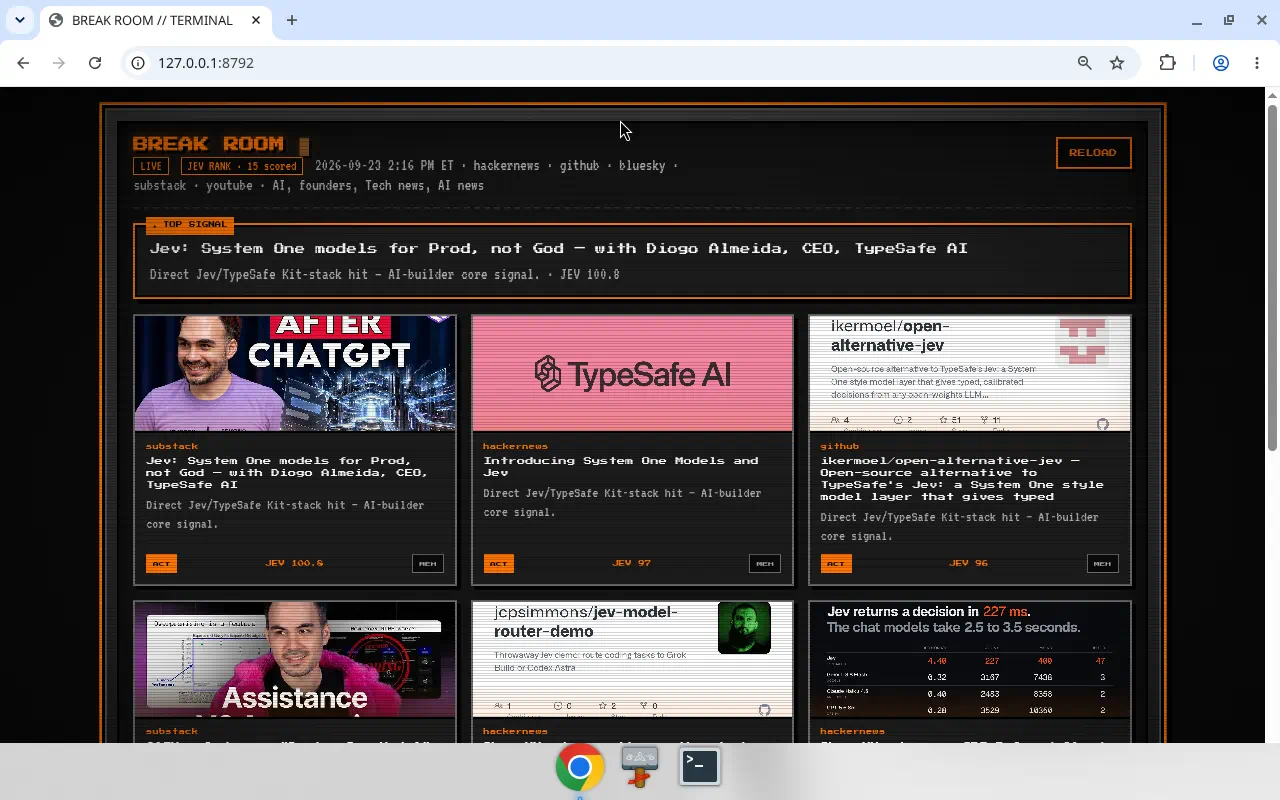
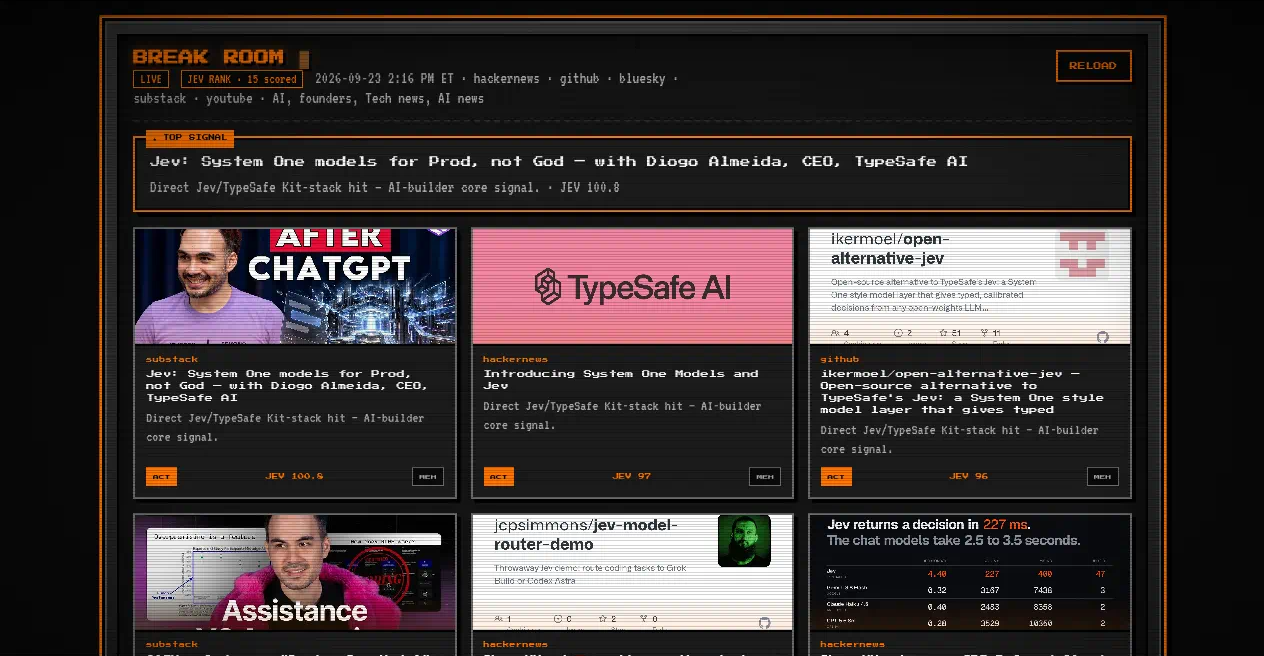
Crop Break Room screenshot

diff --git a/content-pipeline/feedback/jev-break-room.md b/content-pipeline/feedback/jev-break-room.md
@@ -92,3 +92,20 @@ would not, Kit said:
 
 **Approved result:** Publish the final 1,002-word post with the Break Room wall
 screenshot.
+
+## Screenshot crop
+
+**Stage:** Post-publication correction
+
+**Rejected result:** The published Break Room screenshot included Chrome's
+browser controls, the Windows taskbar, the browser scrollbar, and the mouse
+pointer.
+
+**Kit:**
+
+> ok i dont want the screen shot to show the computer and browser
+
+**Approved direction:** Crop the screenshot to the Break Room page itself and
+remove the pointer overlay. Preserve the original app interface and text.
+
+**Status:** Approved for this post.
